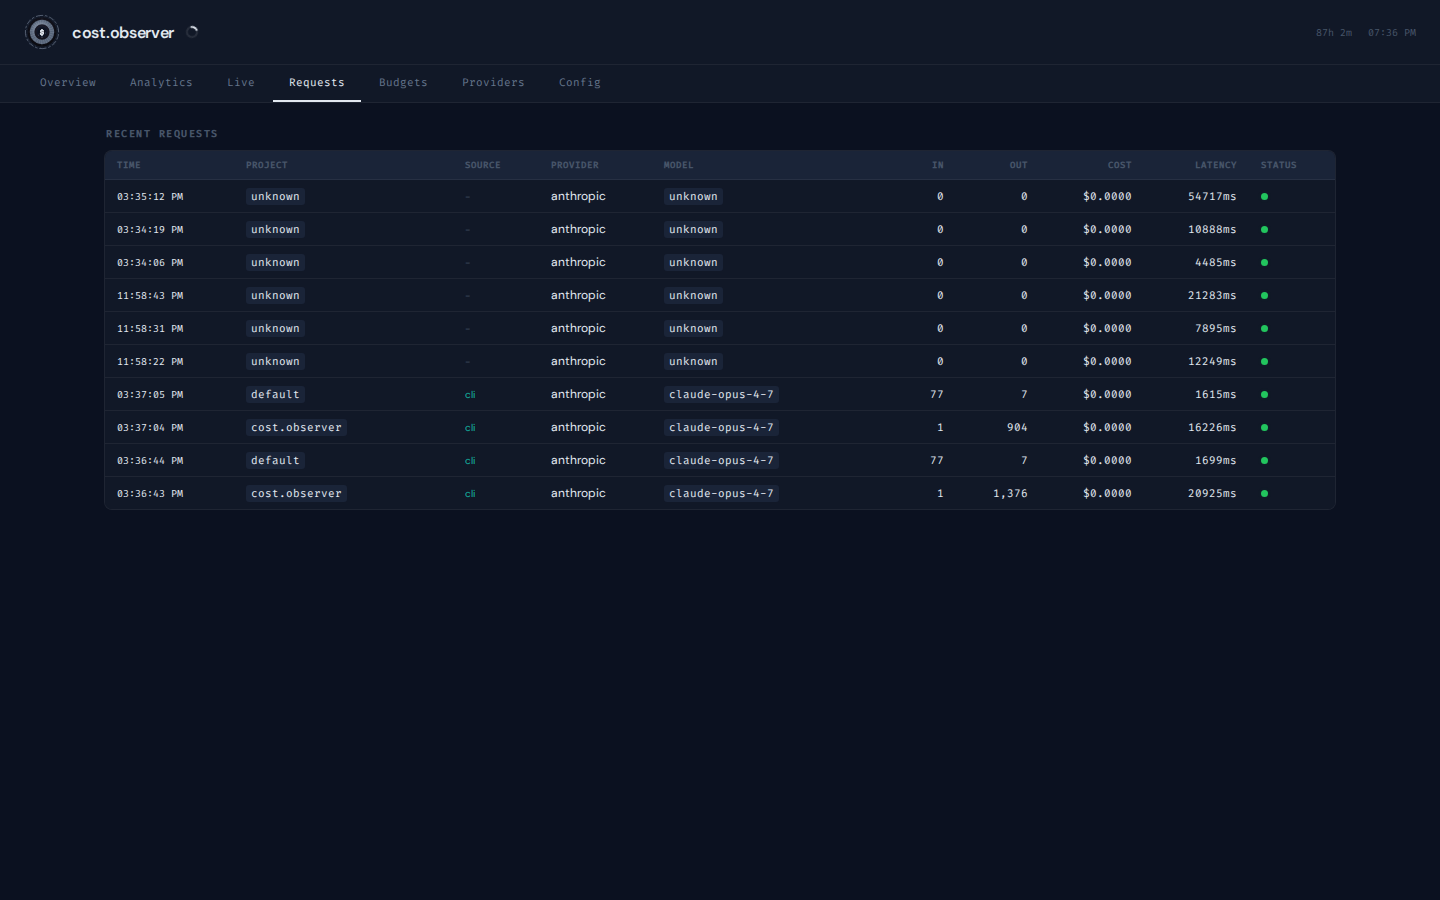
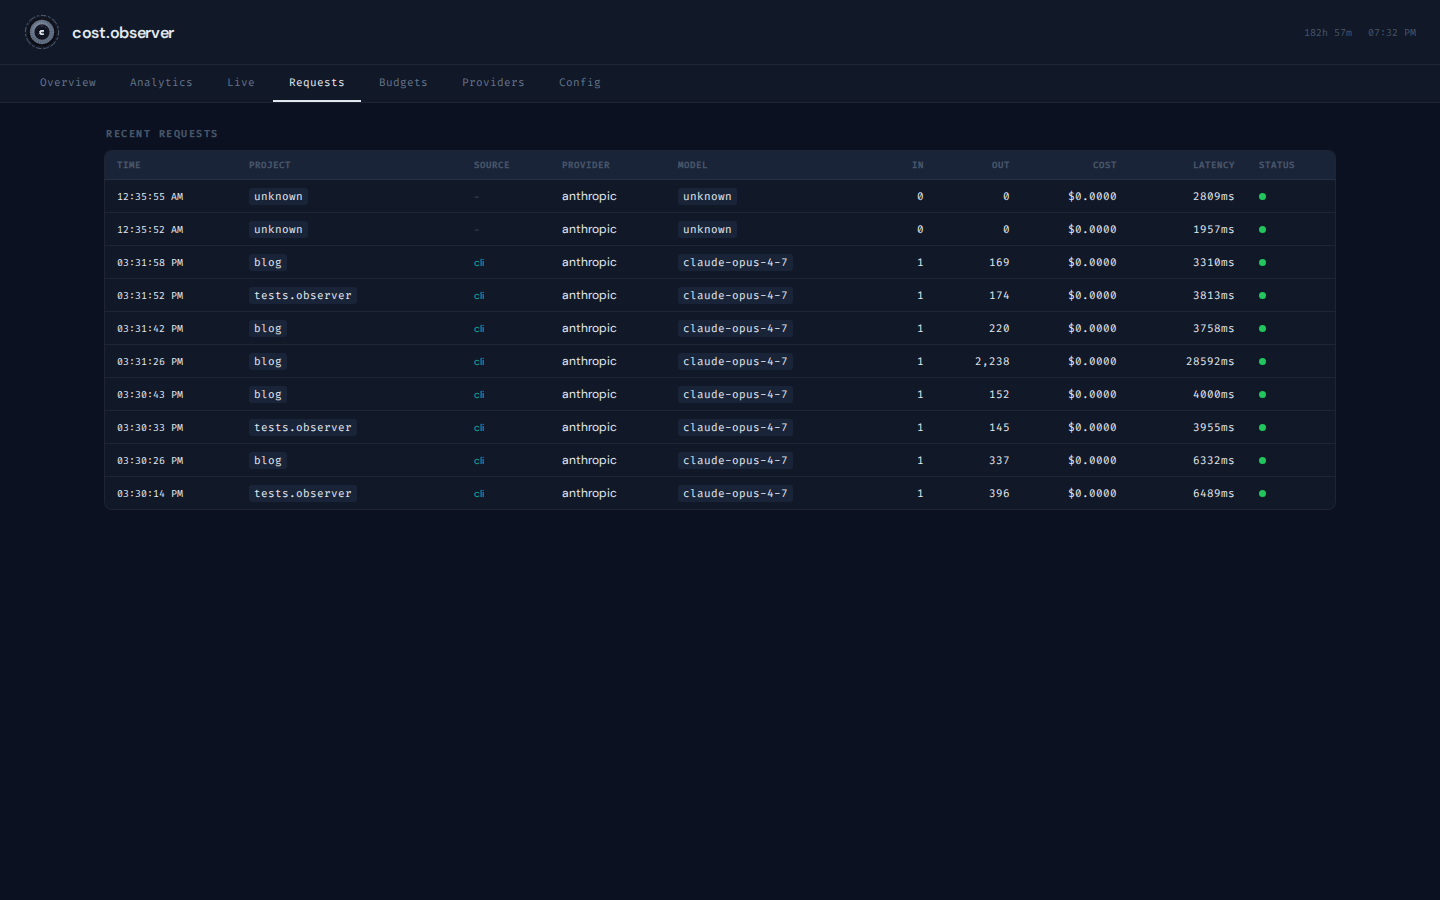
[IP-3173] Refresh cost/state/tests observer screenshots + carousel <picture> srcLight
- cost.observer: re-capture all 7 tabs in BOTH light and dark
  via Playwright colorScheme inside dev-automation.observer; long
  per-tab waits so analytics charts / budgets / config tables fully render
- state.observer: re-capture all 7 sidebar tabs (overview, simulations,
  pipelines, runs, sql, environments, fleet) via data-testid clicks;
  state.observer has no light theme, so dark-only
- tests.observer: re-capture dashboard / projects / results / errors
  after fixing the corrupt errors.json that was crashlooping the backend;
  current state is sparse (run summaries zeroed — separate bug) but real;
  tests.observer is also hardcoded dark
- screenshot-carousel include: optional 'srcLight' per shot now emits
  <picture><source media='(prefers-color-scheme: light)'><img></picture>;
  shots without srcLight keep the plain <img> path. Wired srcLight
  through every cost.observer carousel entry; state and tests stay <img>.
- Browser-tested both branches via automation.observer; 0 console errors,
  0 page errors, 0 failed requests.

diff --git a/docs/_includes/screenshot-carousel.html b/docs/_includes/screenshot-carousel.html
@@ -5,9 +5,13 @@
   Frontmatter shape:
     screenshots:
       - src: /blog/images/screenshots/tasks-observer/kanban.png
+        srcLight: /blog/images/screenshots/tasks-observer/kanban-light.png  # optional
         caption: Kanban board with full hierarchy
       - src: /blog/images/screenshots/tasks-observer/gantt.png
         caption: Gantt view with cross-project dependencies
+
+  `src` is the default (dark) asset; if `srcLight` is provided, a <picture>
+  source swaps it in for viewers with prefers-color-scheme: light.
 
   Multiple carousels on one page would collide on the global id — kept simple
   for now since each blog post renders one.
@@ -21,9 +25,18 @@
             aria-roledescription="slide"
             aria-label="{{ forloop.index }} of {{ page.screenshots.size }}">
           <figure>
-            <img src="{{ shot.src }}"
-                 alt="{{ shot.caption | default: page.title | strip_html }}"
-                 loading="lazy" />
+            {% if shot.srcLight %}
+              <picture>
+                <source media="(prefers-color-scheme: light)" srcset="{{ shot.srcLight }}">
+                <img src="{{ shot.src }}"
+                     alt="{{ shot.caption | default: page.title | strip_html }}"
+                     loading="lazy" />
+              </picture>
+            {% else %}
+              <img src="{{ shot.src }}"
+                   alt="{{ shot.caption | default: page.title | strip_html }}"
+                   loading="lazy" />
+            {% endif %}
             {% if shot.caption %}
               <figcaption>{{ shot.caption }}</figcaption>
             {% endif %}

diff --git a/docs/_posts/2026-02-12-Cost-Observer-LLM-Spend-Attributed-Line-Item.md b/docs/_posts/2026-02-12-Cost-Observer-LLM-Spend-Attributed-Line-Item.md
@@ -8,18 +8,25 @@ image: https://techmeka.com/blog/images/cost-observer-hero.png
 published: true
 screenshots:
   - src: /blog/images/screenshots/cost-observer/overview.png
+    srcLight: /blog/images/screenshots/cost-observer/overview-light.png
     caption: Overview — KPIs (requests, total cost, tokens, error rate) plus cost broken down by project, model, and source over 24h
   - src: /blog/images/screenshots/cost-observer/requests.png
+    srcLight: /blog/images/screenshots/cost-observer/requests-light.png
     caption: Recent requests — every prompt logged with project, source, model, token counts, cost, latency, and status
   - src: /blog/images/screenshots/cost-observer/providers.png
+    srcLight: /blog/images/screenshots/cost-observer/providers-light.png
     caption: Connected providers — health-checked upstreams (Anthropic, OpenAI, Spark) with model counts and live latency
   - src: /blog/images/screenshots/cost-observer/analytics.png
+    srcLight: /blog/images/screenshots/cost-observer/analytics-light.png
     caption: Analytics — time-window filters across projects / models / sources / providers with cost-over-time, request volume, token usage, latency trends
   - src: /blog/images/screenshots/cost-observer/live.png
+    srcLight: /blog/images/screenshots/cost-observer/live-light.png
     caption: Live tail — server-sent stream of in-flight requests, scoped by project, with pause / clear controls
   - src: /blog/images/screenshots/cost-observer/budgets.png
+    srcLight: /blog/images/screenshots/cost-observer/budgets-light.png
     caption: Budgets — declarative spend limits per scope, period, and action (warn / throttle / block) enforced before the request leaves
   - src: /blog/images/screenshots/cost-observer/config.png
+    srcLight: /blog/images/screenshots/cost-observer/config-light.png
     caption: Routing config — per-project provider/model overrides, applied per-request at the gateway
 ---
 

diff --git a/docs/_posts/2026-02-05-State-Observer-Git-Backed-Time-Machine.md b/docs/_posts/2026-02-05-State-Observer-Git-Backed-Time-Machine.md
@@ -9,10 +9,12 @@ published: true
 screenshots:
   - src: /blog/images/screenshots/state-observer/overview.png
     caption: Portfolio overview — activity calendar, top projects, run status across every repo
-  - src: /blog/images/screenshots/state-observer/runs.png
-    caption: Cron-triggered snapshot runs, with per-project history and trigger metadata
+  - src: /blog/images/screenshots/state-observer/simulations.png
+    caption: Simulations — sandbox commits and deploys against your project graph before they touch real state
   - src: /blog/images/screenshots/state-observer/pipelines.png
     caption: Snapshot pipelines — define what gets captured, when, and on which trigger
+  - src: /blog/images/screenshots/state-observer/runs.png
+    caption: Cron-triggered snapshot runs with per-project history and trigger metadata
   - src: /blog/images/screenshots/state-observer/sql.png
     caption: Built-in SQL workbench against the snapshot store — read-only, schema-aware
   - src: /blog/images/screenshots/state-observer/environments.png

diff --git a/docs/_posts/2026-01-29-Tests-Observer-One-Test-Runner-Every-Repo.md b/docs/_posts/2026-01-29-Tests-Observer-One-Test-Runner-Every-Repo.md
@@ -8,11 +8,11 @@ image: https://techmeka.com/blog/images/tests-observer-hero.png
 published: true
 screenshots:
   - src: /blog/images/screenshots/tests-observer/dashboard.png
-    caption: Portfolio dashboard — KPIs, project health grid, recent runs, and the live failing-tests list across every repo
+    caption: Portfolio dashboard — KPIs, project health grid, and recent runs across every registered repo
   - src: /blog/images/screenshots/tests-observer/projects.png
     caption: Registered projects with auto-detected stack tags, last-run pass counts, and one-click run buttons
   - src: /blog/images/screenshots/tests-observer/results.png
-    caption: Test results — every run with pass/fail status, duration, and inline stack traces for failures
+    caption: Test results — filter across projects, statuses, and types; drill into individual test runs
   - src: /blog/images/screenshots/tests-observer/errors.png
     caption: Client errors panel — browser errors, console logs, and failed requests aggregated per project
 ---
